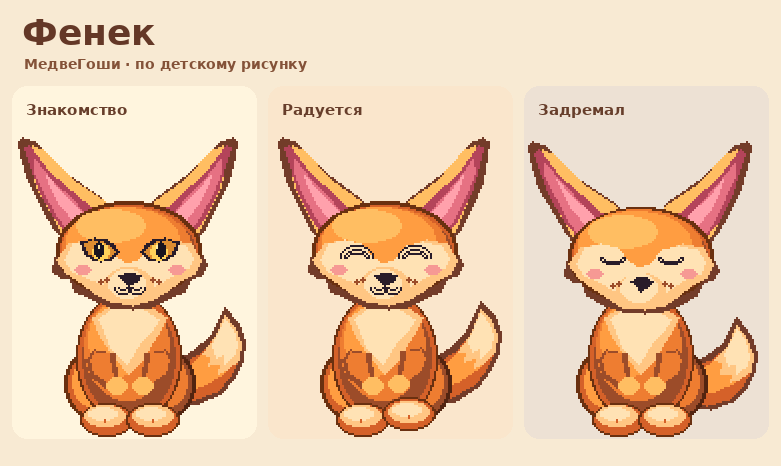
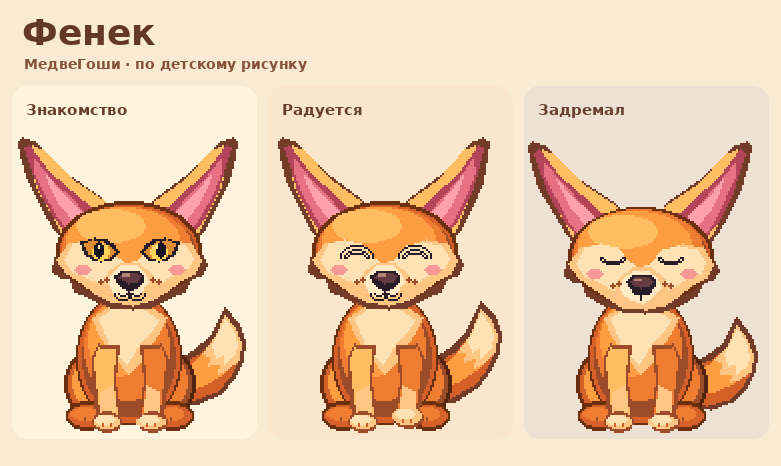
Give Fennec a distinct nose and grounded forepaws

diff --git a/zoo/animals/fennec/face.py b/zoo/animals/fennec/face.py
@@ -1,4 +1,4 @@
-"""Фенек: pixel art from the sketch's oversized ears, shy paws and w-smile."""
+"""Фенек: expressive pixel fox with a tapered muzzle and grounded paws."""
 
 OUTLINE = (113, 62, 46)
 DEEP = (159, 76, 42)
@@ -80,23 +80,34 @@ def render(E, R, P, A, eyes="normal", mouth="sorriso", sick=False, motion=None):
     E(0, -31, 22.4, 28.2, AMBER, 1)
     E(0, -31, 20.5, 26.1, DEEP); E(-1.4, -35, 18.5, 23.2, ORANGE)
     E(-6, -39, 12.4, 16.6, TANGERINE)
-    # Cream bib and little front paws coming together like in the drawing.
+    # Cream bib and long forelegs braced on the ground, like a seated fox.
     P(0, -41, (-16,-7,-9,-12,9,-12,16,-7,13,0,9,4,7,10,0,17,
                 -7,10,-10,5,-14,0), CREAM_SHADE)
     P(-1, -42, (-13,-5,-7,-10,7,-10,14,-5,10,0,6,4,0,14,-7,7,-10,0), CREAM)
     for side in _SIDES:
+        # A tucked back foot is visible outside the straighter foreleg.
+        back = side * 19
+        E(back, -5.1, 7.6, 4.75, AMBER, 1)
+        E(back-.65, -5.65, 6, 3.1, ORANGE)
+        R(back-1.15, -3.8, 1.25, 1.6, DEEP)
+    for side in _SIDES:
+        x = side * 9.8
         step = max(0, lift * side)
-        P(side*13, -29-step/2, (-6*side,-3,2*side,-5,6*side,-1,4*side,6,
-                                -2*side,12,-7*side,12,-7*side,7), DEEP)
-        P(side*13, -30-step/2, (-4*side,-2,2*side,-3,4*side,0,2*side,6,
-                                -3*side,10,-6*side,10,-5*side,5), ORANGE)
-        E(side*5.8, -18-step/2, 4.7, 3.8, HONEY)
-        E(side*10.5, -3.7-step, 10.6, 6.3, AMBER, 1)
-        E(side*10.5-.6, -4.7-step, 8.8, 4.5, CREAM_SHADE)
-        E(side*10.5-1.3, -5.5-step, 6.6, 2.8, CREAM)
-        R(side*10.5-.3, -3.2-step, 1.1, 2, AMBER)
+        P(x, 0, (-5*side,-36,4*side,-37,6.8*side,-31,6.5*side,-20,
+                 4.9*side,-4-step,3.7*side,1-step,-4*side,1-step,
+                 -5.7*side,-6-step,-3.5*side,-20), DEEP)
+        P(x, 0, (-3.1*side,-34,3.8*side,-35,5.2*side,-30,4.9*side,-20,
+                 3.25*side,-6-step,2.5*side,-1-step,-2.6*side,-1-step,
+                 -3.7*side,-6-step,-2*side,-20), ORANGE if side > 0 else HONEY)
+        P(x, 0, (-2.6*side,-18,2.6*side,-16,2.8*side,-6-step,2.1*side,-2-step,
+                 -2.4*side,-2-step,-3.0*side,-7-step), CREAM_SHADE)
+        E(x, -2.1-step, 6.9, 4.35, DEEP)
+        E(x-.6, -2.8-step, 5.8, 3.35, CREAM_SHADE)
+        E(x-1.15, -3.6-step, 4.4, 1.75, CREAM)
+        R(x-2.2, -1.45-step, 1.1, 1.5, AMBER)
+        R(x+1.4, -1.45-step, 1.1, 1.5, AMBER)
 
-    # The huge rounded ears are taller than the forehead and visibly pink.
+    # The huge fanned ears are taller than the forehead and visibly pink.
     bounce = (-2 if happy else (1 if asleep else 0))
     _ear(P, -1, -84 + nod, bounce + 1)
     _ear(P, 1, -84 + nod, bounce - 1)
@@ -115,8 +126,12 @@ def render(E, R, P, A, eyes="normal", mouth="sorriso", sick=False, motion=None):
     P(0, -74+nod, (-29,0,-25,-7,-18,-9,-11,-7,-6,-1,-1,2,4,0,9,-6,
                    16,-8,24,-6,28,-1,26,4,19,7,11,12,7,16,0,18,
                    -7,16,-11,12,-19,8,-25,5), CREAM)
-    E(-.4, -62.9+nod, 10.2, 7.7, CREAM_SHADE)
-    E(-1.2, -63.7+nod, 8.3, 6.45, CREAM)
+    # A small projecting snout with its own shadow and lit plane.
+    P(0, -64.1+nod, (-12,0,-8,-5,-4,-8,4,-8,9,-4,12,1,8,7,2,10,
+                     -4,9,-9,6), CREAM_SHADE)
+    P(-.7, -64.8+nod, (-9,0,-6,-4,-3,-6,4,-6,7,-3,9,1,5,6,1,8,
+                      -4,7,-7,5), (255, 235, 195))
+
 
     anchors = ((-12.8, -78+nod), (12.8, -78+nod))
     for side, (x, y) in zip(_SIDES, anchors):
@@ -145,15 +160,19 @@ def render(E, R, P, A, eyes="normal", mouth="sorriso", sick=False, motion=None):
         E(x, -69.5+nod, 3.85, 2.1, (136,164,102) if sick else (242,155,151))
     for x, y in ((-10,-65), (-13,-64), (10,-65), (13,-64)):
         E(x,y+nod,1,.72,DEEP)
-    P(0, -64.8+nod, (-4.7,-1.6,-2.3,-3,2.4,-3,4.5,-1.7,3,.6,
-                    0,2.7,-2.4,.75), INK)
-    R(-.65, -63.3+nod, 1.3, 2.5, INK)
+    # Soft triangular black nose, edged by a tiny, warm specular line.
+    P(0, -64.5+nod, (-6.2,-1.9,-3.9,-4.2,3.7,-4.2,6.1,-2.3,5.9,.1,
+                    3,3.3,0,4.8,-3.1,3.3,-5.9,.4), INK)
+    P(0, -64.5+nod, (-4.9,-1.7,-3.1,-3.2,2.9,-3.2,4.8,-1.9,3,.3,
+                    -.4,.8,-3.3,-.1), (97, 63, 66))
+    R(-2.8, -67.4+nod, 3.05, 1.15, (177, 129, 118))
+    R(-.7, -60.25+nod, 1.4, 2.5, INK)
     if mouth in ('o','aberta') or (action=='eating' and (now//170)%2):
-        E(0, -59+nod, 3.85, 3.75, INK)
-        E(0, -58+nod, 2.2, 1.4, PINK)
+        E(0, -56.5+nod, 3.7, 3.05, INK)
+        E(0, -55.8+nod, 2.1, 1.15, PINK)
     elif mouth == 'triste':
         A(0, -57.8+nod, 4.1, 2.9, INK, 1, 2)
     elif not asleep:
-        A(-2.8, -61.4+nod, 3.4, 2.55, INK, 2, 2)
-        A(2.8, -61.4+nod, 3.4, 2.55, INK, 2, 2)
+        A(-2.8, -58.8+nod, 3.4, 2.4, INK, 2, 2)
+        A(2.8, -58.8+nod, 3.4, 2.4, INK, 2, 2)
     return anchors

diff --git a/docs/SCREENSHOTS_RU.md b/docs/SCREENSHOTS_RU.md
@@ -30,7 +30,7 @@
 
 ## Фенек крупным планом
 
-По детскому рисунку сохранили сложенные перед собой лапки и кавайное выражение. По фотографии фенека уточнили силуэт: уши широко расходятся, мордочка сужается книзу, а жёлтые миндалевидные глаза смотрят из-под тёмного ободка. Шерсть осталась рыжей, хвост пушистым.
+От детского рисунка остались большие уши и кавайное выражение. По фотографии фенека уточнили силуэт: уши широко расходятся, мордочка сужается к заметному тёмному носику, а передние лапки опираются на землю. Глаза жёлтые и миндалевидные. Шерсть осталась рыжей, хвост пушистым.
 
 [![Фенек знакомится, радуется и дремлет](img/medvegoshi-ru/fennec-preview.png)](img/medvegoshi-ru/fennec-preview.png)
 
